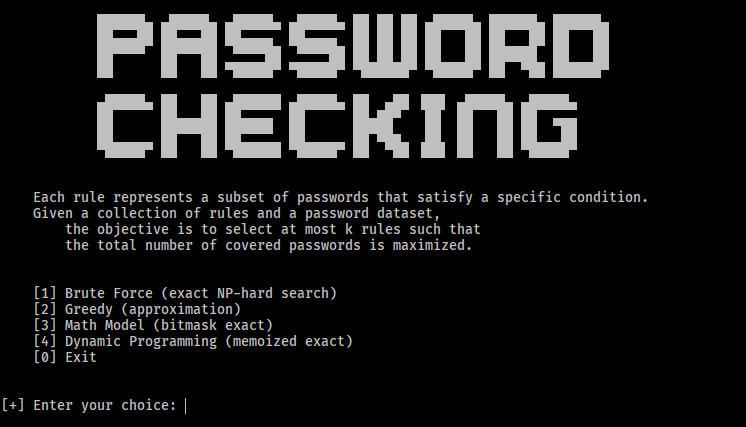
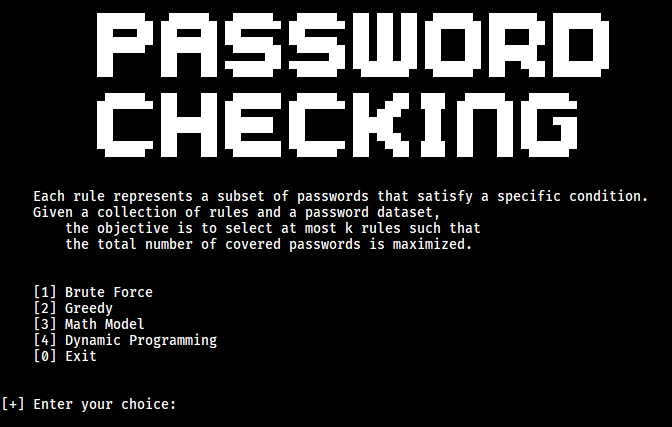
update logic project

diff --git a/coverage_problem.py b/coverage_problem.py
@@ -117,31 +117,28 @@ def rule_names(rule_ids):
     return [f"[{rule_id}] {RULES[rule_id]['label']}" for rule_id in rule_ids]
 
 
-def save_answer(filename, selected_rule_ids, passwords, covered_mask):
+def passwords_for_rule(rule_id, passwords):
+    """Lọc đúng các password thỏa một rule duy nhất."""
+    predicate = RULES[rule_id]["predicate"]
+    return [password for password in passwords if predicate(password)]
+
+
+def save_answer(filename, passwords):
     """
     Ghi file output.
     Y nghia output:
     - chi luu dap an cuoi cung
     - khong luu thong so benchmark
+    - khong luu danh sach rule
     - khong copy toan bo passwords.txt
     - neu khong co ket qua thi ghi null
     """
-    covered_passwords = mask_to_passwords(passwords, covered_mask)
-
     with open(filename, "w", encoding="utf-8") as f:
-        if selected_rule_ids:
-            f.write("Selected rules:\n")
-            for line in rule_names(selected_rule_ids):
-                f.write(f"{line}\n")
-        else:
-            f.write("Selected rules:\nnull\n")
-
-        if covered_passwords:
-            f.write("Covered passwords:\n")
-            for password in covered_passwords:
+        if passwords:
+            for password in passwords:
                 f.write(f"{password}\n")
         else:
-            f.write("Covered passwords:\nnull\n")
+            f.write("null\n")
 
     print(f"[+] Results saved to: {filename}")
 
@@ -165,7 +162,7 @@ def result_payload(method_name, k, selected_rule_ids, passwords, covered_mask):
     }
 
 
-def run_solver(method_name, solver, k, passwords, output_file):
+def run_solver(method_name, solver, rule_id, passwords, output_prefix):
     """
     Chay 1 solver, do thoi gian va bo nho, roi ghi dap an ra file.
     Day la lop wrapper chung cho ca 4 thuat toan.
@@ -173,17 +170,26 @@ def run_solver(method_name, solver, k, passwords, output_file):
     tracemalloc.start()
     start_time = time.perf_counter()
 
-    result = solver(passwords, k)
+    selected_passwords = passwords_for_rule(rule_id, passwords)
+    result = {
+        "method": method_name,
+        "rule_id": rule_id,
+        "selected_rule": rule_names([rule_id])[0],
+        "covered_passwords": selected_passwords,
+        "coverage_count": len(selected_passwords),
+        "total_passwords": len(passwords),
+    }
 
     end_time = time.perf_counter()
     current_memory, peak_memory = tracemalloc.get_traced_memory()
     tracemalloc.stop()
 
-    save_answer(output_file, result["selected_rule_ids"], passwords, result["covered_mask"])
+    output_file = f"{output_prefix}_rule{rule_id}.txt"
+    save_answer(output_file, selected_passwords)
 
     print(f"\n============= {method_name.upper()} =============")
-    print(f"[+] Selected Rules : {', '.join(result['selected_rules']) if result['selected_rules'] else 'null'}")
-    print(f"[+] Covered        : {len(result['covered_passwords'])}/{result['total_passwords']}")
+    print(f"[+] Selected Rule  : {result['selected_rule']}")
+    print(f"[+] Covered        : {result['coverage_count']}/{result['total_passwords']}")
     print(f"[+] Execution Time : {end_time - start_time:.6f} s")
     print(f"[+] Memory Used    : {current_memory / 1024:.2f} KB | {current_memory / (1024 * 1024):.4f} MB")
     print(f"[+] Peak Memory    : {peak_memory / 1024:.2f} KB | {peak_memory / (1024 * 1024):.4f} MB")

diff --git a/rules.py b/rules.py
@@ -7,7 +7,7 @@ except ImportError:
 def printRuleCatalog():
     """
     In danh sach rule ung vien.
-    Day la tap cac set co the duoc chon trong bai toan maximum coverage.
+    Moi lan chay chi chon 1 rule de lay dung tap password tuong ung.
     """
     menu = """
     Candidate rules:
@@ -24,7 +24,7 @@ def printRuleCatalog():
 
 
 def _prompt_k():
-    """Nhap so rule can chon va kiem tra hop le."""
+    """Nhap ID cua rule can chon va kiem tra hop le."""
     while True:
         try:
             k = int(input(f"[+] Enter your choice: "))
@@ -37,9 +37,8 @@ def _prompt_k():
 
 def checkPassword(algorithm_module):
     """
-    Chon k rule va goi solver.
-    Ket qua in ra chi gom cac rule da chon va cac password duoc phu.
-    Nguoi dung co the nhap lai k neu muon chay tiep.
+    Chon 1 rule va goi solver.
+    Ket qua chi gom cac password thoa dung rule do.
     """
     try:
         passwords = algorithm_module.load_passwords()
@@ -53,6 +52,7 @@ def checkPassword(algorithm_module):
     while True:
         printRuleCatalog()
         print(f"[+] Total candidate rules: {len(RULES)}")
+        print("[+] Enter the rule ID you want to filter.")
         k = _prompt_k()
 
         if k == 0:
@@ -61,5 +61,5 @@ def checkPassword(algorithm_module):
             break
 
         # Goi solver theo thuat toan da chon.
-        print("[*] Solving maximum coverage...\n")
+        print("[*] Filtering passwords by the selected rule...\n")
         algorithm_module.solve_max_coverage(k, passwords)

diff --git a/pwd_checking.py b/pwd_checking.py
@@ -18,10 +18,10 @@ def printMenuAlgorithms():
     Nguoi dung se chon 1 trong 4 cach giai maximum coverage.
     """
     menu = """
-    [1] Brute Force (exact NP-hard search)
-    [2] Greedy (approximation)
-    [3] Math Model (bitmask exact)
-    [4] Dynamic Programming (memoized exact)
+    [1] Brute Force
+    [2] Greedy
+    [3] Math Model
+    [4] Dynamic Programming
     [0] Exit
     """
     print(menu)

diff --git a/algorithms/Brute_Force.py b/algorithms/Brute_Force.py
@@ -6,7 +6,7 @@ except ImportError:
 
 def solve_max_coverage(k, passwords):
     """Goi giai phap exact bang duyet to hop."""
-    return run_solver("brute force", solve_bruteforce, k, passwords, "output_brute_max_coverage.txt")
+    return run_solver("brute force", solve_bruteforce, k, passwords, "output_brute")
 
 
 def check_password(k, passwords=None):

diff --git a/algorithms/Dynamic_Programming.py b/algorithms/Dynamic_Programming.py
@@ -6,7 +6,7 @@ except ImportError:
 
 def solve_max_coverage(k, passwords):
     """Goi giai phap exact co memoization."""
-    return run_solver("dynamic programming", solve_dp, k, passwords, "output_dp_max_coverage.txt")
+    return run_solver("dynamic programming", solve_dp, k, passwords, "output_dp")
 
 
 def check_password(k, passwords=None):

diff --git a/algorithms/Greedy.py b/algorithms/Greedy.py
@@ -6,7 +6,7 @@ except ImportError:
 
 def solve_max_coverage(k, passwords):
     """Goi giai phap tham lam xap xi."""
-    return run_solver("greedy", solve_greedy, k, passwords, "output_greedy_max_coverage.txt")
+    return run_solver("greedy", solve_greedy, k, passwords, "output_greedy")
 
 
 def check_password(k, passwords=None):

diff --git a/algorithms/Math_Model.py b/algorithms/Math_Model.py
@@ -6,7 +6,7 @@ except ImportError:
 
 def solve_max_coverage(k, passwords):
     """Goi giai phap bitmask exact."""
-    return run_solver("math model", solve_math_model, k, passwords, "output_math_model_max_coverage.txt")
+    return run_solver("math model", solve_math_model, k, passwords, "output_math_model")
 
 
 def check_password(k, passwords=None):

diff --git a/README.md b/README.md
@@ -168,23 +168,24 @@ Notes:
 
 ## Output Files
 
-Each solver writes to its own output file:
+Each solver writes to its own output file, and the filename includes the selected rule ID:
 
-- `output_brute_max_coverage.txt`
-- `output_greedy_max_coverage.txt`
-- `output_math_model_max_coverage.txt`
-- `output_dp_max_coverage.txt`
+- `output_brute_rule1.txt`
+- `output_greedy_rule2.txt`
+- `output_math_model_rule5.txt`
+- `output_dp_rule7.txt`
 
-The output contains only:
+The output contains only the final answer:
 
-- the selected rules
 - the covered passwords
+- or `null` if nothing is covered
 
 It does not include:
 
 - benchmark statistics
 - the full contents of `passwords.txt`
 - passwords that are not covered by the selected rules
+- the selected rules themselves
 
 If no result is available, the program prints `null`.
 
@@ -205,4 +206,3 @@ Then:
 For the detailed Vietnamese explanation of the theory, project behavior, and algorithm analysis, open:
 
 - [`description.md`](description.md)
-